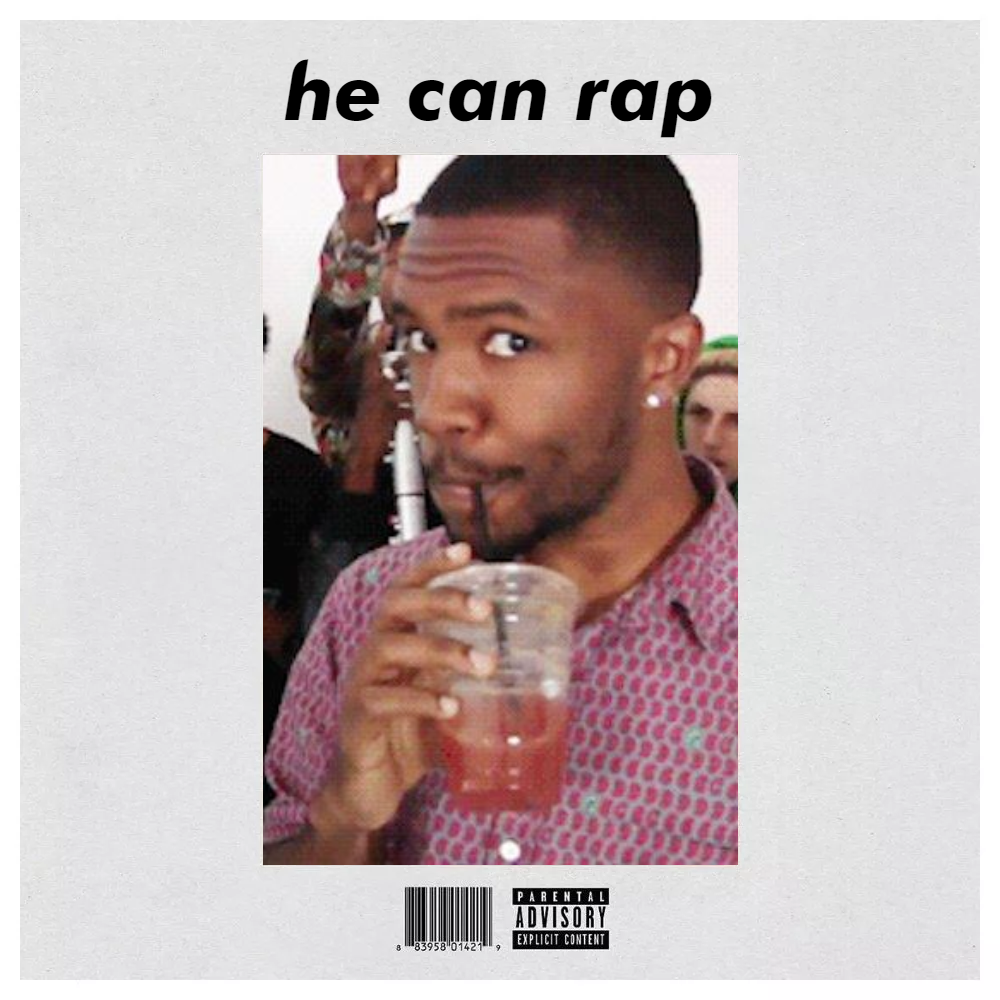
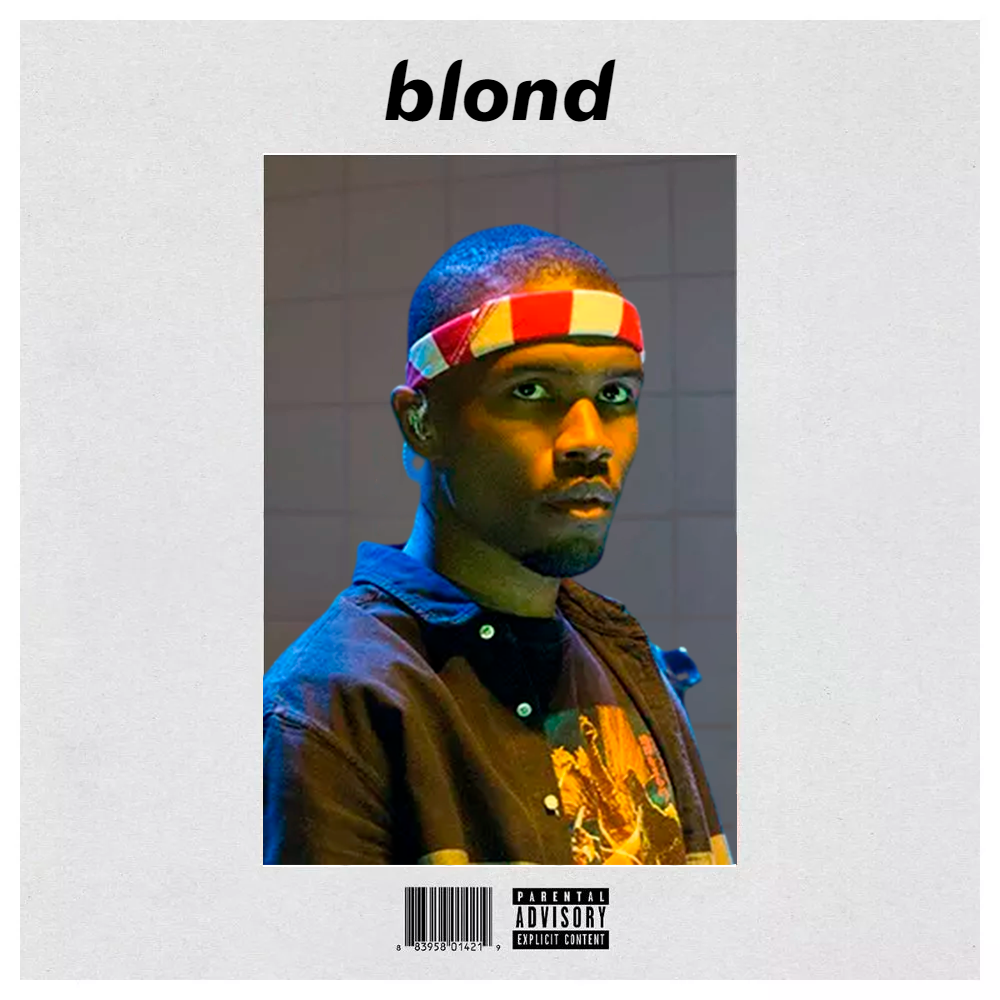
change blonde bg and remove border from cropper

diff --git a/components/General/Cropper.jsx b/components/General/Cropper.jsx
@@ -55,7 +55,7 @@ const Cropper = ({ imageSrc, setImage, CTAstyle, cropOptions }) => {
         <ReactCrop
           aspect={aspect}
           crop={crop}
-          className="relative"
+          className="relative border border-black"
           onComplete={(c) => setCompletedCrop(c)}
           onChange={(c) => {
             setCrop(c);
@@ -69,7 +69,7 @@ const Cropper = ({ imageSrc, setImage, CTAstyle, cropOptions }) => {
           )}
           <img
             width="200"
-            className={`filter border border-black ${
+            className={`filter ${
               showCropLabel ? "brightness-20 bg-zinc-800" : ""
             } hidden`}
             ref={srcRef}

diff --git a/pages/wlr.js b/pages/wlr.js
@@ -1,5 +1,6 @@
 import WlrEditor from "../components/WlrEditor";
 import CustomHead from "../components/General/CustomHead";
+import RemoveBgAlert from "../components/General/RemoveBgAlert";
 
 const Wlr = () => {
   return (
@@ -7,6 +8,7 @@ const Wlr = () => {
       <CustomHead name="Whole lotta red" url="wlr" />
       <div className="bg-zinc-200">
         <h2 className="p-12 text-4xl text-center">Whole Lotta Red</h2>
+        <RemoveBgAlert />
         <WlrEditor />
       </div>
     </>

diff --git a/pages/blonde.js b/pages/blonde.js
@@ -1,12 +1,14 @@
 import React from "react";
 import CustomHead from "../components/General/CustomHead";
 import BlondeEditor from "../components/BlondeEditor";
+import RemoveBgAlert from "../components/General/RemoveBgAlert";
 const Blonde = () => {
   return (
     <>
       <CustomHead name="BLONDE" url="BLONDE" />
       <div className="bg-zinc-200">
         <h2 className="p-12 text-4xl text-center">Blonde</h2>
+        <RemoveBgAlert />
         <BlondeEditor />
       </div>
     </>

diff --git a/components/General/RemoveBgAlert.jsx b/components/General/RemoveBgAlert.jsx
@@ -4,7 +4,9 @@ const RemoveBgAlert = () => {
   return (
     <div className="p-3 py-6 bg-black text-gray-300">
       <h3 className="text-xl pb-3">
-        This cover requires a transparent background to look properly.
+        This cover requires a{" "}
+        <span className="text-amber-300">transparent background</span> to look
+        properly.
       </h3>
       <p>
         You can remove your background in

diff --git a/components/BLONDE/ImageHandler.jsx b/components/BLONDE/ImageHandler.jsx
@@ -26,7 +26,7 @@ const ImageHandler = ({ setImage }) => {
         </div>
       </div>
       <Cropper
-        cropOptions={{ aspect: 475 / 710 }}
+        cropOptions={{ aspect: 475 / 660 }}
         imageSrc={imageSrc}
         setImage={setImage}
         CTAstyle="bg-green-600 border-black border"

diff --git a/components/BLONDE/blondeFunctions.js b/components/BLONDE/blondeFunctions.js
@@ -8,7 +8,7 @@ export const drawBg = async (ctx) =>
 
 export const drawMainImg = async (ctx, src) => {
   const img = await loadAndCacheImage(src, CACHED_IMAGES);
-  ctx.drawImage(img, 263, 155, 475, 710);
+  ctx.drawImage(img, 263, 205, 475, 660);
 };
 
 export const drawTitle = (ctx, title) => {

diff --git a/components/utils.js b/components/utils.js
@@ -69,6 +69,7 @@ export const asyncBlob = async (element) => {
 
 export const imgFromInputEvent = (e) => {
   if (!e.target.files[0]) return;
+  if (e.target.files[0].size > 2097152) return alert("Image too big!");
   const img = e.target.files[0];
   return URL.createObjectURL(img);
 };

diff --git a/pages/alt-igor.js b/pages/alt-igor.js
@@ -7,8 +7,8 @@ const AltIgor = () => {
     <>
       <CustomHead name="IGOR" />
       <div className="bg-zinc-200">
-        <RemoveBgAlert />
         <h2 className="p-12 text-4xl text-center">IGOR</h2>
+        <RemoveBgAlert />
         <AltIgorEditor />
       </div>
     </>

diff --git a/pages/igor.js b/pages/igor.js
@@ -7,8 +7,8 @@ const IGOR = () => {
     <>
       <CustomHead name="IGOR" />
       <div className="bg-zinc-200">
-        <RemoveBgAlert />
         <h2 className="p-12 text-4xl text-center">IGOR</h2>
+        <RemoveBgAlert />
         <IgorEditor />
       </div>
     </>
